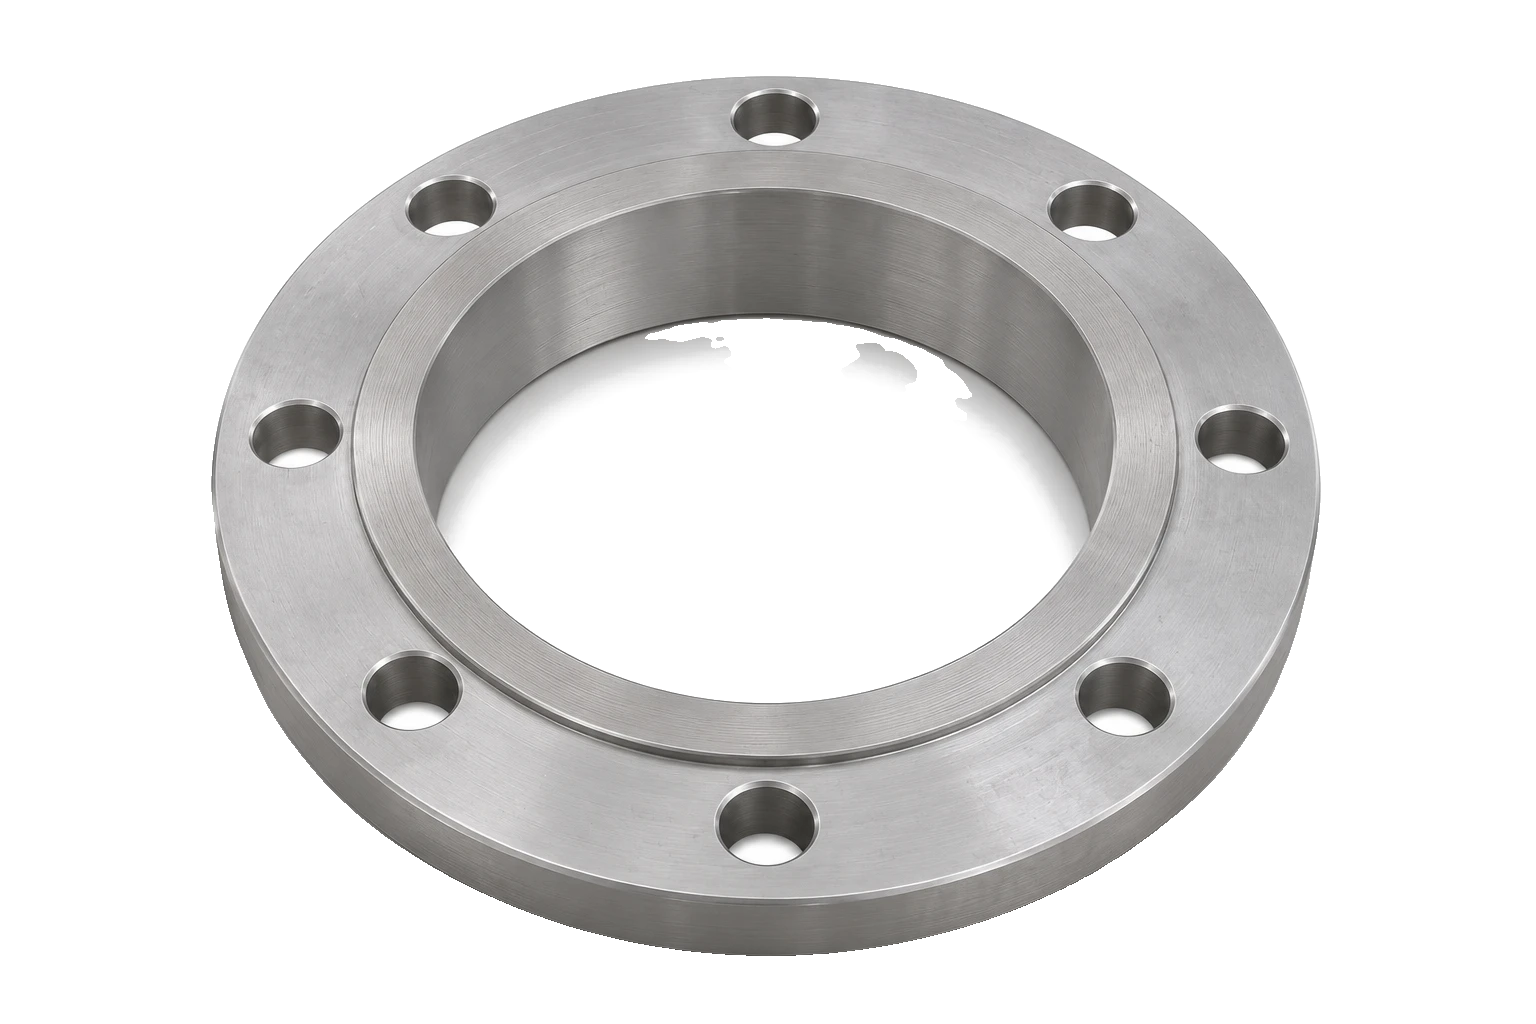
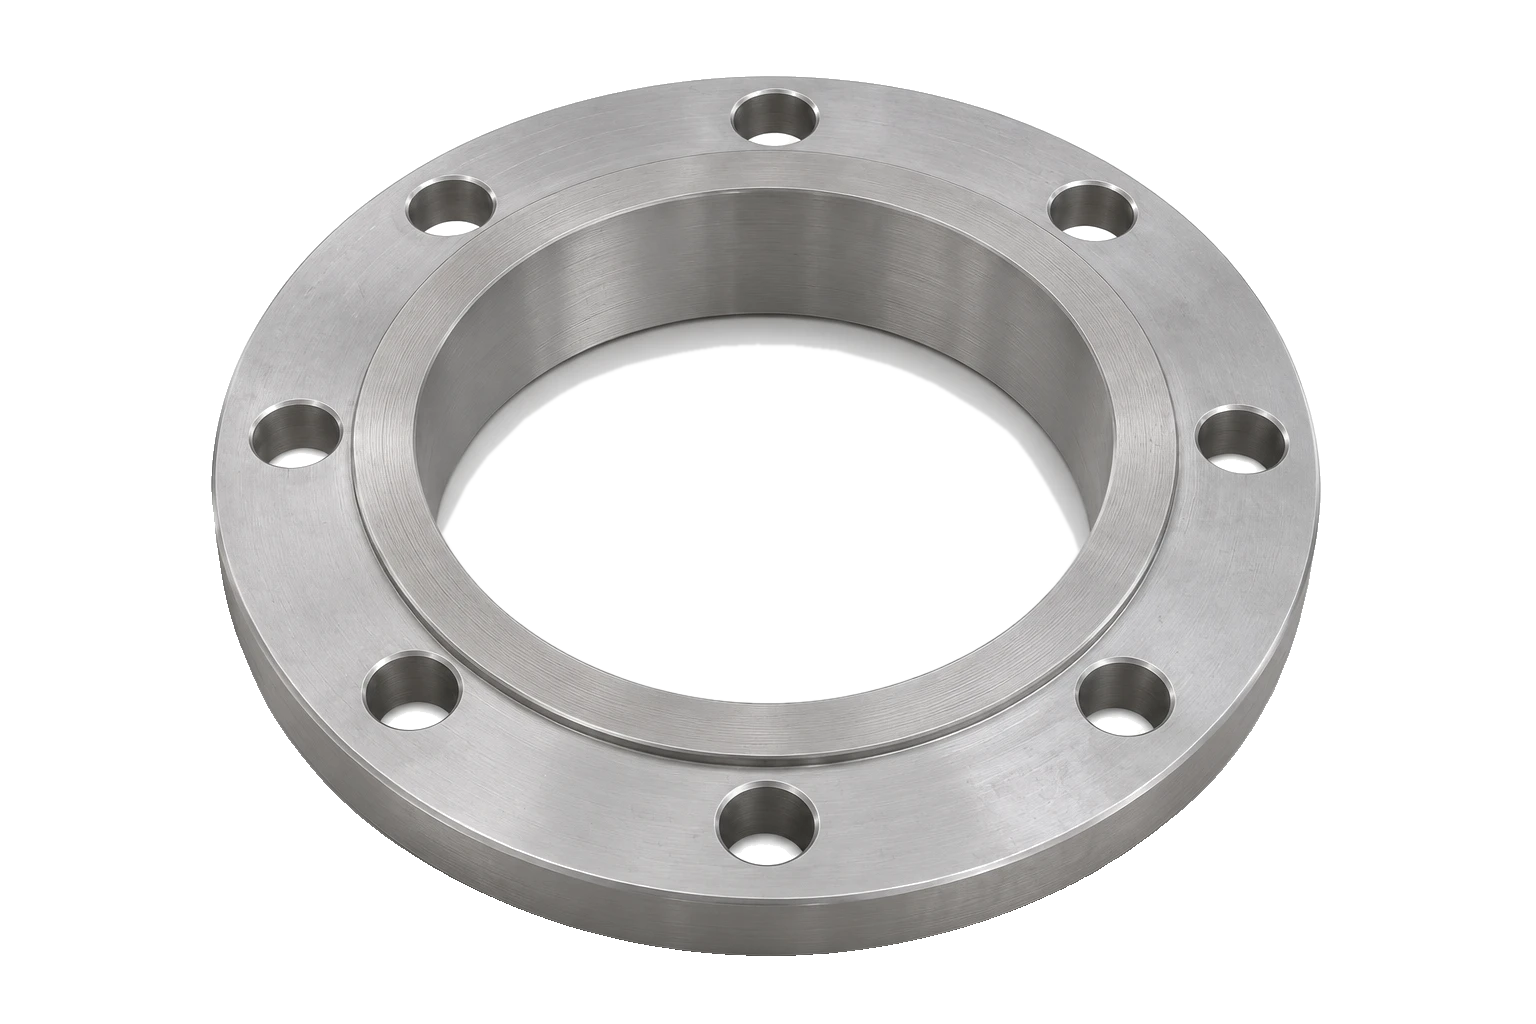
Heping promo: fix S3 blank/finished ghosting and slip-on bore cutout
The blank layer is now clipped to the left of the slider so the two
cut-outs no longer show through each other; the finished slip-on cutout
keeps source colours and gets a clean convex bore opening.

Claude-Session: https://claude.ai/code/session_014QHpVCYCeScaaVRgT8GS3X

diff --git a/projects/heping-promo/video/src/shots/S3Slip.tsx b/projects/heping-promo/video/src/shots/S3Slip.tsx
@@ -74,7 +74,10 @@ export const S3Slip: React.FC<{ kicker?: string; title?: string; before?: string
       {/* 对比卡 */}
       <div style={{ position: 'absolute', left: CARD.x, top: CARD.y, width: CARD.w, height: CARD.h, overflow: 'hidden' }}>
         {/* before：毛坯（暖） */}
-        <Product src="img/cut/full-9.png" />
+        {/* 毛坯只留在杆左侧（两张去底图叠放时不能互相透出） */}
+        <div style={{ position: 'absolute', inset: 0, clipPath: `inset(0 ${(CARD.w - x).toFixed(2)}px 0 0)` }}>
+          <Product src="img/cut/full-9.png" />
+        </div>
         <Tag label={before} side="l" color={C.ember} />
         {/* after：成品（冷），杆右侧揭出 */}
         <div style={{ position: 'absolute', inset: 0, clipPath: `inset(0 0 0 ${x.toFixed(2)}px)` }}>
